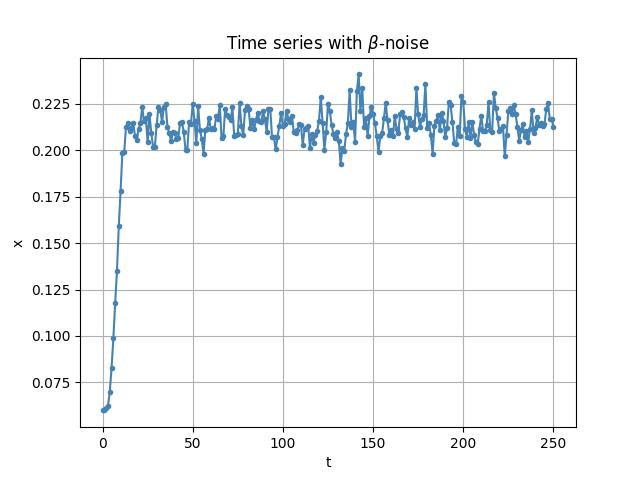
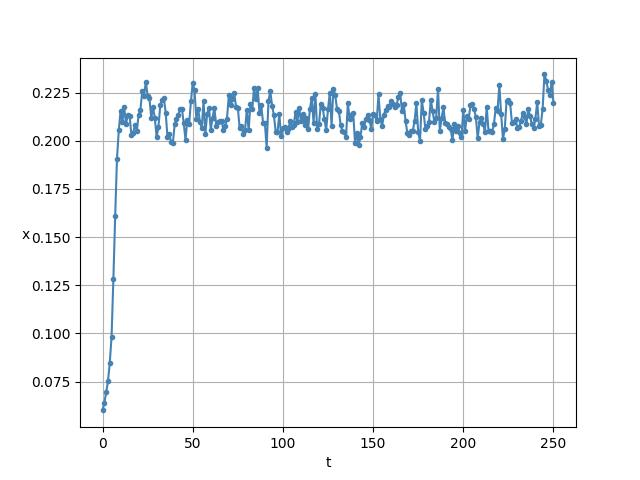
Upd

diff --git a/latex/stochastic.tex b/latex/stochastic.tex
@@ -37,13 +37,37 @@
 
         На рисунке \ref{time_series_x_0_06_a_1_b_0_56} изображено поведение модели без добавления каких-либо шумов. Видно, что значения переменной \(x\) с течением времени стабилизируются. Численность популяции фактически остается неизменной на протяжении всего длительного времени.
 
+        % \begin{figure}
+        %     \centering
+        %     \includegraphics[width=\textwidth]{stochastic/time_series_x_0_06_a_1_b_0_56.jpg}
+
+        %     \captionsetup{justification=centering}
+        %     \caption{Временной ряд модели (\ref{origin}) при \(\beta = 0.56, \alpha = 1, x_0 = 0.06\)}
+        %     \label{time_series_x_0_06_a_1_b_0_56}
+        % \end{figure}
+
         \begin{figure}
             \centering
-            \includegraphics[width=\textwidth]{stochastic/time_series_x_0_06_a_1_b_0_56.jpg}
+            \subfloat[Нет шума]{
+                \includegraphics[width=0.5\textwidth]{stochastic/time_series_x_0_06_a_1_b_0_56.jpg}
+                \label{time_series_x_0_06_a_1_b_0_56}
+            }
+            \subfloat[\(\alpha\)-шум]{
+                \includegraphics[width=0.5\textwidth]{stochastic/time_series_x_0_06_a_1_b_0_56_alpha_chaos_epsilon_0_004.jpg}
+                \label{time_series_x_0_06_a_1_b_0_56_alpha_chaos_epsilon_0_004}
+            }  
 
-            \captionsetup{justification=centering}
-            \caption{Временной ряд модели (\ref{origin}) при \(\beta = 0.56, \alpha = 1, x_0 = 0.06\)}
-            \label{time_series_x_0_06_a_1_b_0_56}
+            \subfloat[\(\beta\)-шум]{
+                \includegraphics[width=0.5\textwidth]{stochastic/time_series_x_0_06_a_1_b_0_56_beta_chaos_epsilon_0_004.jpg}
+                \label{time_series_x_0_06_a_1_b_0_56_beta_chaos_epsilon_0_004}
+            }
+            \subfloat[Аддитивный шум]{
+                \includegraphics[width=0.5\textwidth]{stochastic/time_series_x_0_06_a_1_b_0_56_additive_chaos_epsilon_0_004.jpg}
+                \label{time_series_x_0_06_a_1_b_0_56_additive_chaos_epsilon_0_004}
+            }
+            
+            \caption{Временные ряды}
+            \label{fig_sim1}
         \end{figure}
 
         Теперь давайте добавим шумы в нашу модель и рассмотрим соответственно рисунки \ref{time_series_x_0_06_a_1_b_0_56_alpha_chaos_epsilon_0_004}, \ref{time_series_x_0_06_a_1_b_0_56_beta_chaos_epsilon_0_004} и \ref{time_series_x_0_06_a_1_b_0_56_additive_chaos_epsilon_0_004}. Все варианты рассматриваются с одной и той же интенсивностью шума \(\varepsilon = 0.004\). 
@@ -56,32 +80,32 @@
 
         \comment{Хорошая фраза: переход вызванный индуцированным шумом}
 
-        \begin{figure}
-            \centering
-            \includegraphics[width=\textwidth]{stochastic/time_series_x_0_06_a_1_b_0_56_alpha_chaos_epsilon_0_004.jpg}
+        % \begin{figure}
+        %     \centering
+        %     \includegraphics[width=\textwidth]{stochastic/time_series_x_0_06_a_1_b_0_56_alpha_chaos_epsilon_0_004.jpg}
         
-            \captionsetup{justification=centering}
-            \caption{Временной ряд модели (\ref{alpha_chaos}) при \(\beta = 0.56, \alpha = 1, x_0 = 0.06, \varepsilon = 0.004\)}
-            \label{time_series_x_0_06_a_1_b_0_56_alpha_chaos_epsilon_0_004}
-        \end{figure}
+        %     \captionsetup{justification=centering}
+        %     \caption{Временной ряд модели (\ref{alpha_chaos}) при \(\beta = 0.56, \alpha = 1, x_0 = 0.06, \varepsilon = 0.004\)}
+        %     \label{time_series_x_0_06_a_1_b_0_56_alpha_chaos_epsilon_0_004}
+        % \end{figure}
 
-        \begin{figure}
-            \centering
-            \includegraphics[width=\textwidth]{stochastic/time_series_x_0_06_a_1_b_0_56_beta_chaos_epsilon_0_004.jpg}
+        % \begin{figure}
+        %     \centering
+        %     \includegraphics[width=\textwidth]{stochastic/time_series_x_0_06_a_1_b_0_56_beta_chaos_epsilon_0_004.jpg}
         
-            \captionsetup{justification=centering}
-            \caption{Временной ряд модели (\ref{beta_chaos}) при \(\beta = 0.56, \alpha = 1, x_0 = 0.06, \varepsilon = 0.004\)}
-            \label{time_series_x_0_06_a_1_b_0_56_beta_chaos_epsilon_0_004}
-        \end{figure}
+        %     \captionsetup{justification=centering}
+        %     \caption{Временной ряд модели (\ref{beta_chaos}) при \(\beta = 0.56, \alpha = 1, x_0 = 0.06, \varepsilon = 0.004\)}
+        %     \label{time_series_x_0_06_a_1_b_0_56_beta_chaos_epsilon_0_004}
+        % \end{figure}
 
-        \begin{figure}
-            \centering
-            \includegraphics[width=\textwidth]{stochastic/time_series_x_0_06_a_1_b_0_56_additive_chaos_epsilon_0_004.jpg}
+        % \begin{figure}
+        %     \centering
+        %     \includegraphics[width=\textwidth]{stochastic/time_series_x_0_06_a_1_b_0_56_additive_chaos_epsilon_0_004.jpg}
         
-            \captionsetup{justification=centering}
-            \caption{Временной ряд модели (\ref{additive_chaos}) при \(\beta = 0.56, \alpha = 1, x_0 = 0.06, \varepsilon = 0.004\)}
-            \label{time_series_x_0_06_a_1_b_0_56_additive_chaos_epsilon_0_004}
-        \end{figure}
+        %     \captionsetup{justification=centering}
+        %     \caption{Временной ряд модели (\ref{additive_chaos}) при \(\beta = 0.56, \alpha = 1, x_0 = 0.06, \varepsilon = 0.004\)}
+        %     \label{time_series_x_0_06_a_1_b_0_56_additive_chaos_epsilon_0_004}
+        % \end{figure}
 
         Для того чтоб продемонстрировать другое возможное поведение, давайте увеличим интенсивность шума. Пускай теперь \(\varepsilon = 0.04\). Рассмотрим рисунок \ref{time_series_x_0_06_a_1_b_0_56_beta_chaos_epsilon_0_04_fall}. Здесь мы видим ситуацию, когда шум оказал негативное влияние на численность популяции. Но опять же все не так просто. Если мы еще раз запустим алгоритм, который просчитывает нашу модель, то мы увидим, что популяция успешно выживала на протяжении анализируемого интервала времени. Данный пример проиллюстрирован на картинке \ref{time_series_x_0_06_a_1_b_0_56_beta_chaos_epsilon_0_04_alive}. Аналогичные эффекты можно наблюдать и при других видах шума.
 

diff --git a/grpah/runner.py b/grpah/runner.py
@@ -141,6 +141,101 @@ def run_time_series_different_noises():
         .show_last())
 
 
+def run_time_series_no_noise():
+    time_range = range(1, 250 + 1)
+    x_start = 0.06
+    skip = False
+
+    a = 1
+    b = 0.56
+
+    source = time_series(
+        time_range=time_range,
+        x_start=x_start,
+        f=lambda x: function.f(a, b, x),
+        skip=skip
+    )
+    (Plotter()
+        .setup_x_label('t')
+        .setup_y_label('x')
+        .setup_grid(grid.major)
+        # .setup_title('Time series original')
+        .plot(source[0], source[1], '.', colors.steel_blue)
+        .show_last())
+
+
+def run_time_series_beta_noise():
+    time_range = range(1, 250 + 1)
+    x_start = 0.06
+    skip = False
+
+    a = 1
+    b = 0.56
+    epsilon = 0.004
+
+    source = time_series(
+        time_range=time_range,
+        x_start=x_start,
+        f=lambda x: functions_b_noise.f(a, b, x, epsilon),
+        skip=skip
+    )
+    (Plotter()
+        .setup_x_label('t')
+        .setup_y_label('x')
+        .setup_grid(grid.major)
+        # .setup_title('Time series $\beta$-noise')
+        .plot(source[0], source[1], '.', colors.steel_blue)
+        .show_last())
+
+
+def run_time_series_alpha_noise():
+    time_range = range(1, 250 + 1)
+    x_start = 0.06
+    skip = False
+
+    a = 1
+    b = 0.56
+    epsilon = 0.004
+
+    source = time_series(
+        time_range=time_range,
+        x_start=x_start,
+        f=lambda x: functions_a_noise.f(a, b, x, epsilon),
+        skip=skip
+    )
+    (Plotter()
+        .setup_x_label('t')
+        .setup_y_label('x')
+        .setup_grid(grid.major)
+        # .setup_title('Time series $\alpha$-noise')
+        .plot(source[0], source[1], '.', colors.steel_blue)
+        .show_last())
+
+
+def run_time_series_additive_noise():
+    time_range = range(1, 250 + 1)
+    x_start = 0.06
+    skip = False
+
+    a = 1
+    b = 0.56
+    epsilon = 0.004
+
+    source = time_series(
+        time_range=time_range,
+        x_start=x_start,
+        f=lambda x: functions_additive_noise.f(a, b, x, epsilon),
+        skip=skip
+    )
+    (Plotter()
+        .setup_x_label('t')
+        .setup_y_label('x')
+        .setup_grid(grid.major)
+        # .setup_title('Time series additive-noise')
+        .plot(source[0], source[1], '.', colors.steel_blue)
+        .show_last())
+
+
 def run_time_series_compare_noise():
     time_range = range(1, 30 + 1)
     x_start0 = 0.04

diff --git a/grpah/main.py b/grpah/main.py
@@ -6,8 +6,14 @@ if __name__ == "__main__":
     print("Run")
 
     # Показать график временного ряда
-    run_time_series_without_chaos()
+    # run_time_series_without_chaos()
     # run_time_series_different_noises()
+
+    # run_time_series_no_noise()
+    run_time_series_beta_noise()
+    # run_time_series_alpha_noise()
+    # run_time_series_additive_noise()
+
     # run_time_series_compare_noise()
     # run_time_series_without_chaos_composition()
 
